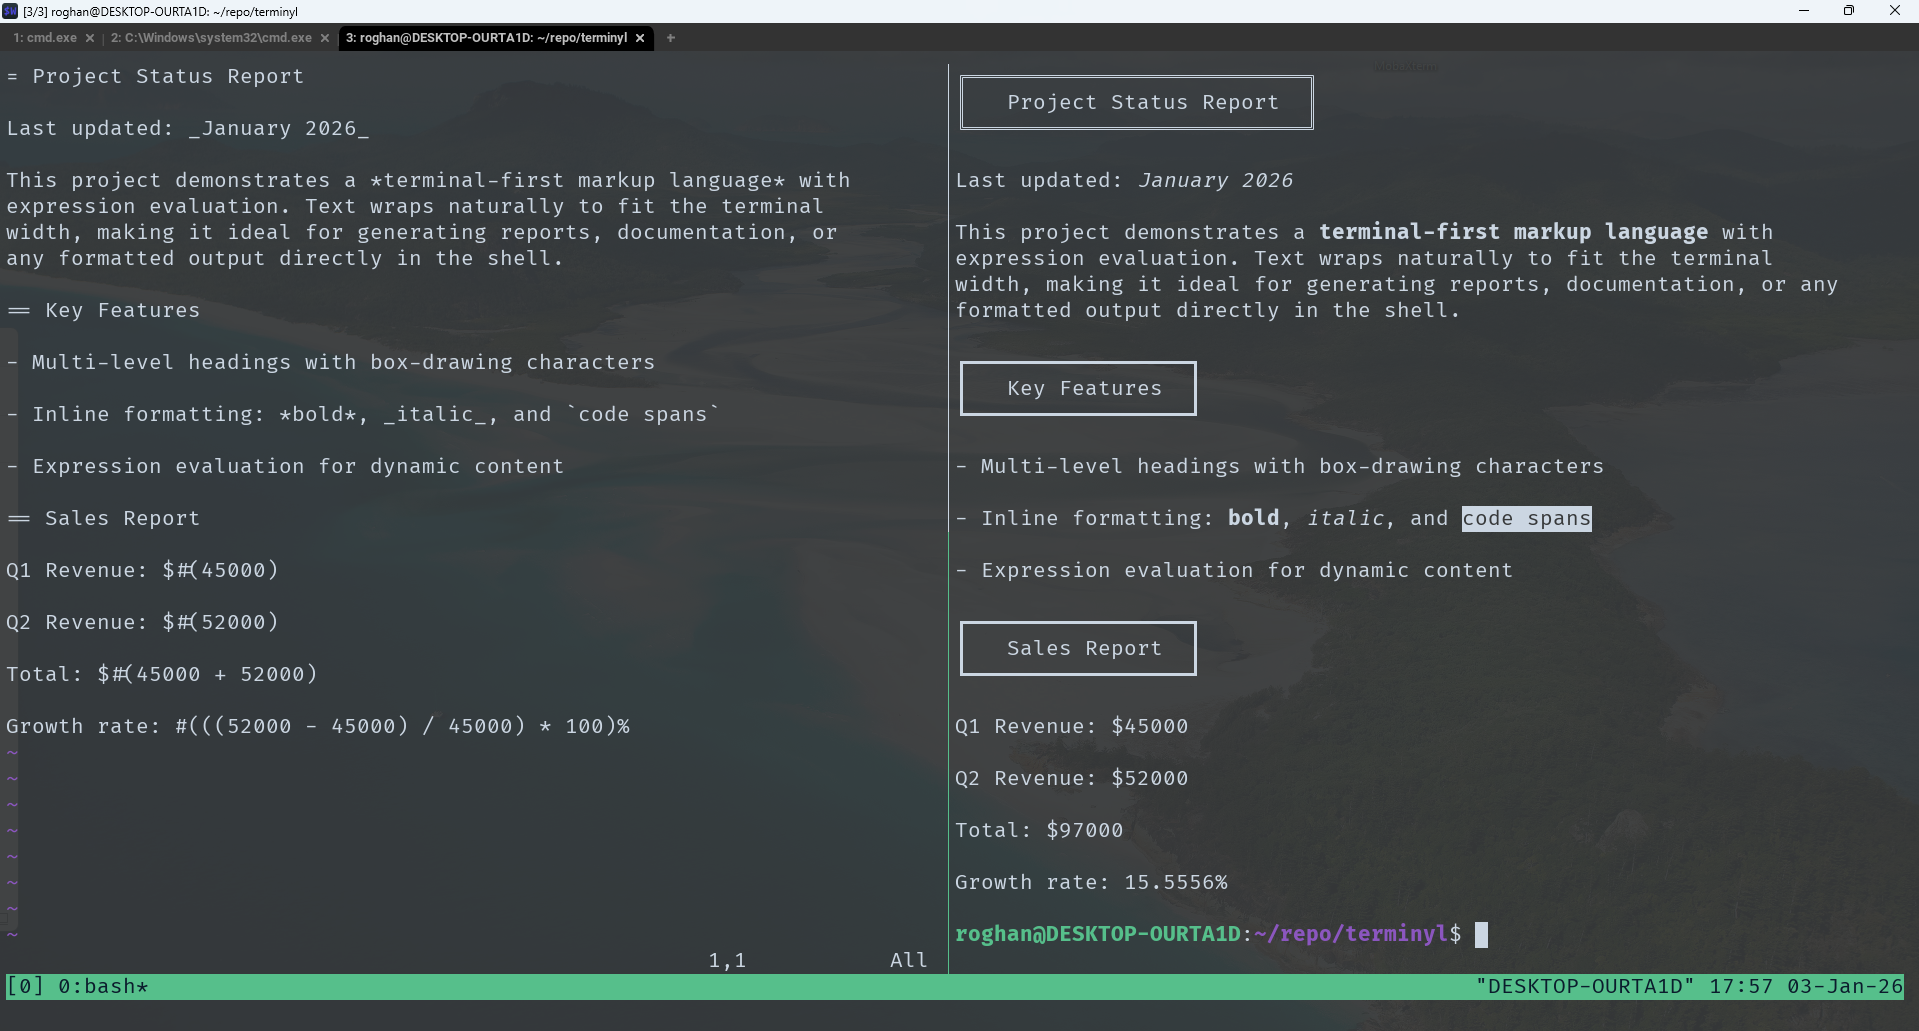
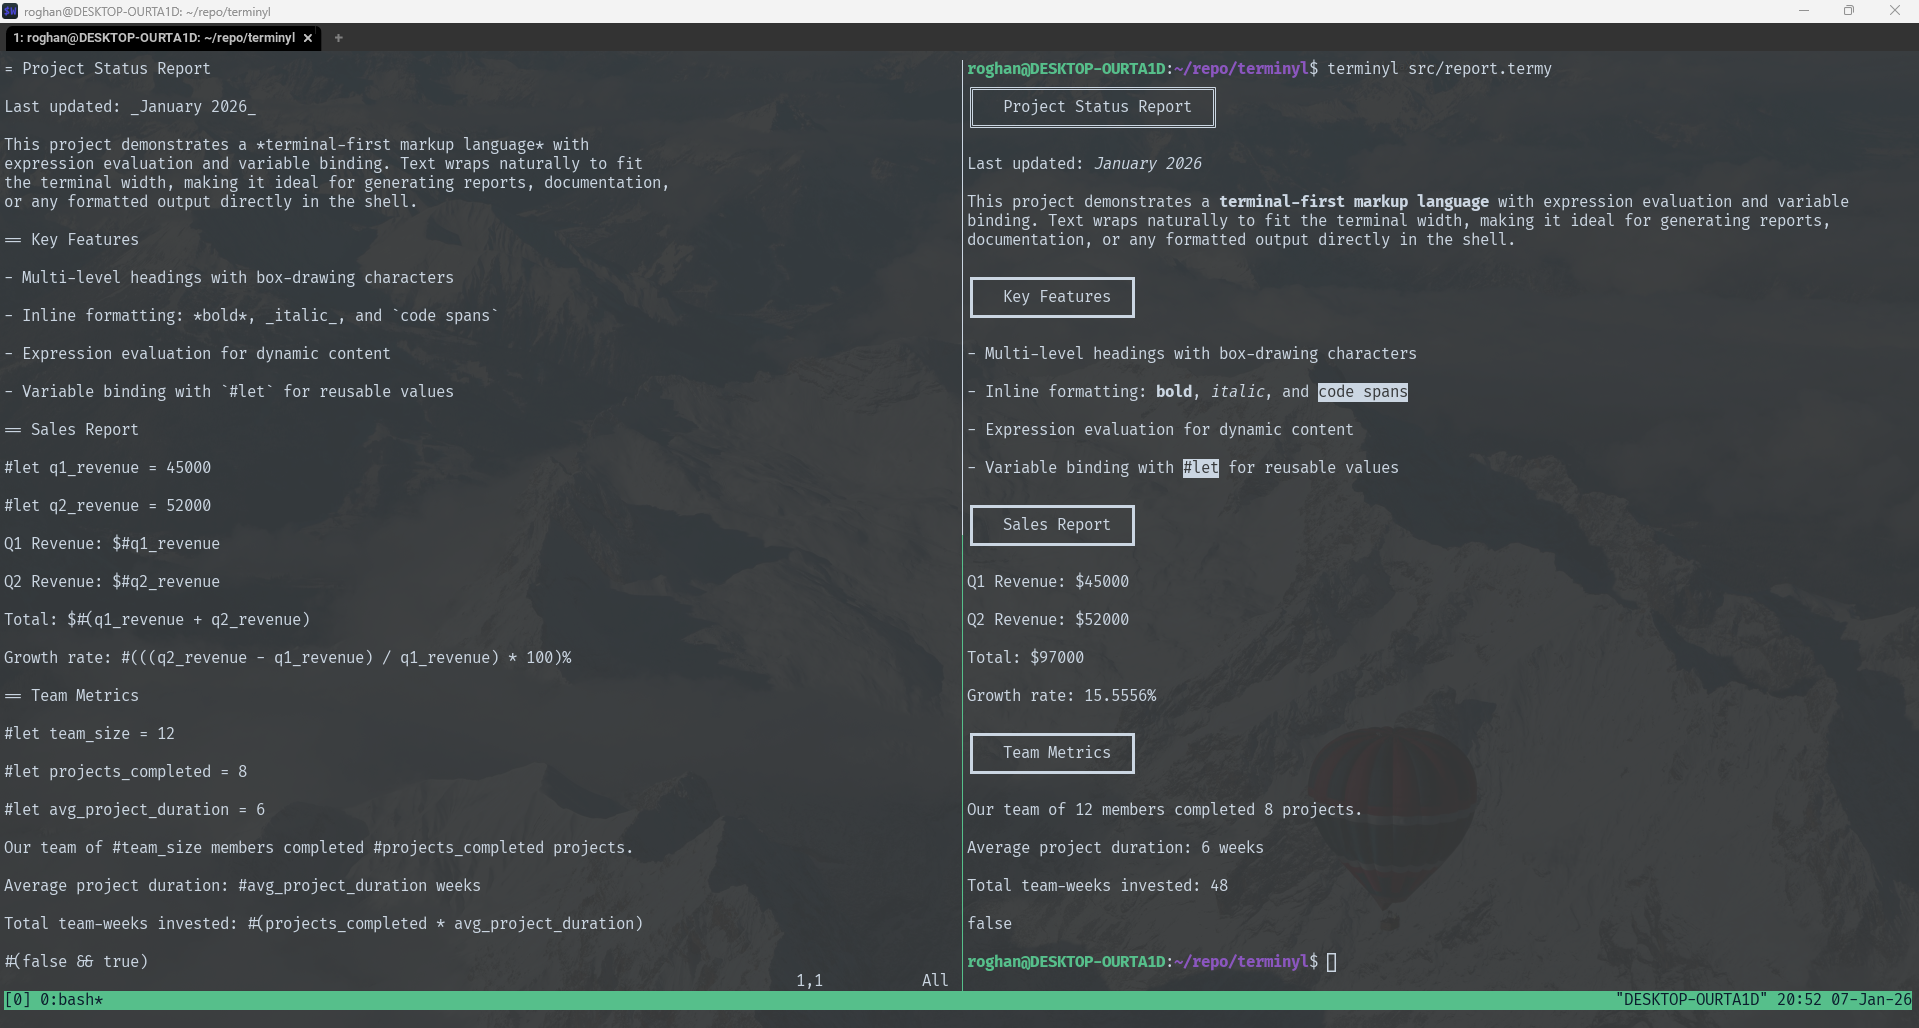
Allow literal #let inside of code spans.

diff --git a/src/lexer.cpp b/src/lexer.cpp
@@ -101,27 +101,30 @@ void Lexer::lexToken() {
   case '/':
     addToken(SLASH);
     break;
-case '#':
-  addToken(TokenType::HASH);
-  
-  // Temporarily enter expression mode to lex the next token
-  if (isAlpha(peek())) {
-    mode_ = LexerMode::EXPRESSION;
-    
-    start = current;
-    start_pos = cur_pos;
-    identifier();
-    
-    if (tokens.back().getType() != TokenType::LET) {
-      mode_ = LexerMode::TEXT;
+  case '#':
+    addToken(TokenType::HASH);
+
+    if (!in_code_span_) {
+      // Temporarily enter expression mode to lex the next token
+      if (isAlpha(peek())) {
+        mode_ = LexerMode::EXPRESSION;
+
+        start = current;
+        start_pos = cur_pos;
+        identifier();
+
+        if (tokens.back().getType() != TokenType::LET) {
+          mode_ = LexerMode::TEXT;
+        }
+      } else if (peek() == '(') {
+        advance();
+        paren_depth_ = 1;
+        mode_ = LexerMode::EXPRESSION;
+        addToken(TokenType::LEFT_PAREN);
+      }
     }
-  } else if (peek() == '(') {
-    advance();
-    paren_depth_ = 1;
-    mode_ = LexerMode::EXPRESSION;
-    addToken(TokenType::LEFT_PAREN);
-  }
-  break;
+
+    break;
   case '"':
     string();
     break;
@@ -130,6 +133,7 @@ case '#':
     break;
   case '`':
     addToken(BACKTICK);
+    in_code_span_ = !in_code_span_;
     break;
   case '_':
     addToken(UNDERSCORE);
@@ -178,7 +182,7 @@ case '#':
     if (mode_ == LexerMode::EXPRESSION && paren_depth_ == 0) {
       mode_ = LexerMode::TEXT;
     }
-    
+
     if (peek() == '\n') {
       advance();
 

diff --git a/src/parser.cpp b/src/parser.cpp
@@ -124,6 +124,7 @@ std::vector<Document::InlinePtr> Parser::parseInlines(TokenType endToken) {
     }
     // Regular text
     const Token &token = advance();
+
     text.append(token.getLexeme(), token.span().start);
   }
 
@@ -350,7 +351,7 @@ Document::ExprPtr Parser::primary() {
     return Document::Expr::make_bool(true, previous().span());
   if (match(TokenType::FALSE))
     return Document::Expr::make_bool(false, previous().span());
-  
+
   if (match(TokenType::NONE)) {
     return Document::Expr::make_none(previous().span());
   }
@@ -376,8 +377,6 @@ Document::ExprPtr Parser::primary() {
     consume(TokenType::RIGHT_PAREN, "Expected ')' in expression\n");
     return e;
   }
-
-
 
   error("Expected literal or '('", peek().span());
   synchronize();

diff --git a/include/lexer.hpp b/include/lexer.hpp
@@ -25,8 +25,8 @@ public:
 
 private:
     enum class LexerMode : std::uint8_t {
-        TEXT,       // Normal text mode - spaces significant
-        EXPRESSION  // Expression mode - skip whitespace
+        TEXT,       // Normal text mode: spaces significant
+        EXPRESSION,  // Expression mode: skip whitespace
     };
     
     char peekNext();
@@ -52,6 +52,7 @@ private:
     DiagnosticSet diagnostics_;
     LexerMode mode_ = LexerMode::TEXT;
     int paren_depth_ = 0;
+    bool in_code_span_ = false;
     void error(std::string message, SourceSpan span);
     
     // Reserved words

diff --git a/README.md b/README.md
@@ -56,16 +56,16 @@ The document compiler features helpful, pretty error messages with:
 - Italic: `_text_`
 - Code spans: ``  `text`  ``
 
-### Expressions (implemented, minimal)
+### Expressions (implemented)
 - Inline expression splices using `#( … )`
 - Numeric literals and basic binary operators (+, -, *, /, ==, >=, <=, !=, >)
 - Expression results are evaluated and inserted into the document
+- Variables and bindings
 
 #### Example
 `Total: #(1+2)` renders as `Total: 3`.
 
 ### Expressions (planned)
-- Variables and bindings
 - Function calls
 
 ### Statements (planned)

diff --git a/TODO.md b/TODO.md
@@ -3,6 +3,7 @@
 ## Priority
 - Support more expressions
 - Control flow
+- Make variable bindings block-level rather than inline
 
 ## Required
 
